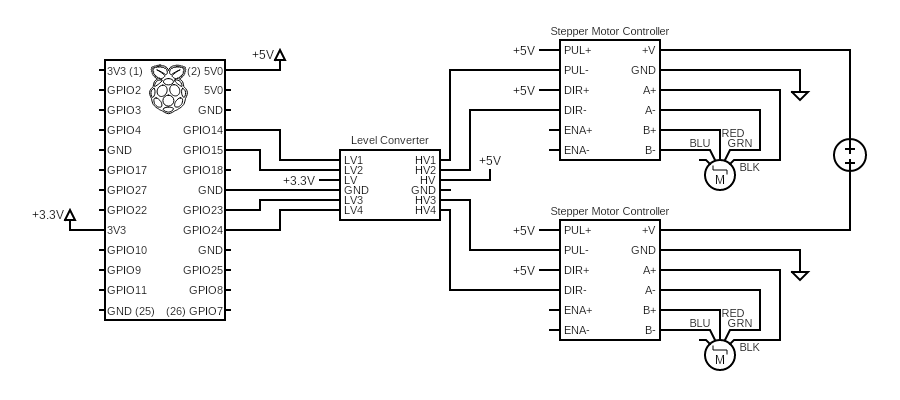
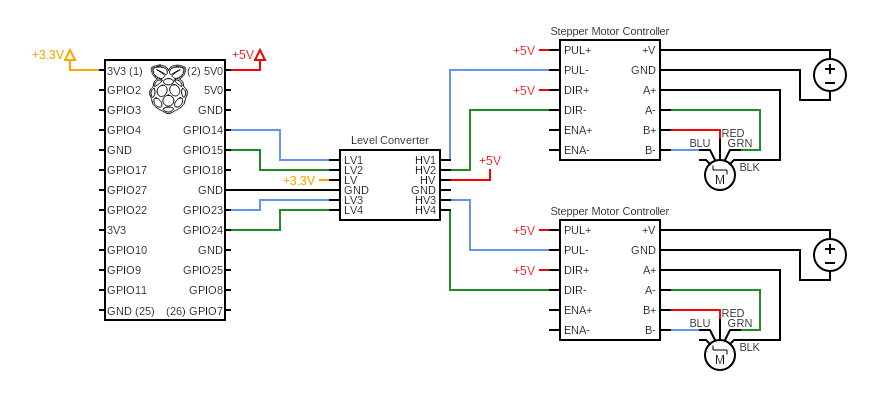
Electronics section

Changed region(s): [[0.3989, 0.06, 0.9818, 0.93], [0.0307, 0.12, 0.4295, 0.81]]

diff --git a/README.md b/README.md
@@ -1,5 +1,6 @@
 # Automatic Telesocpe Control
 Welcome to the project page of the automatic pointing telescope. The goal of this project was to design, build, and program a mounting system for a telescope that is free to rotate in all directions without the need for the user to physically interact with the telescope. Such a system is more accurate, less finicky, and able to view the night sky remotely, without constant user monitoring. This project required us to design the hardware necessary for a maneuverable yet precise mounting system, the electronics necesary to rotate a 5 kg telescope and mounting system with about 30 arseconds of precision, as well as the software which controls the motors, calculation of required pointing angle, and the telescope as a whole.
+![Final Design](https://github.com/cbrahana/supreme-carnival/blob/main/images/Telescope_Setup.png)
 
 ## Table of Contents
 - [Components and Budget](#components-and-budget)
@@ -58,8 +59,11 @@ We did not have time to fully implement encoders, although much of the functiona
 ### Mounting System
 
 ### Electronics
+To control the telescope, we needed extremely precisce yet powerful rotary motors &mdash not necessarily fast motors. We settled on the use of stepper motors, which are ideal for these circumstances: they are not as fast as other types of motors, but the notion of discrete 'steps' means that the motor torque and precision were exactly what we need. To power the NEMA 23 motors we selected, however, required the purchase of two dedicated controllers, which could convert the logic signals from the RPi to 24V and up to 4A signals to the motors themselves. We settled on the DM542 controllers since we did not care about high microstepping fidelity (as microstepping decreases torque) and it met the requirements of our motors. The ALITOVE power supplywas simply chosen because it was the cheapest available which could provide 24VDC power at up to 5A for each motor simultaneously. The choice of RPi was unimportant, in fact, we used many different RPis throughout the project. However, since the RPi only supplies 3.3V on its digital GPIO pins, and the controllers needed at least 3.5V to interpret the signals, we had to purchase a level converter, which would amplify the digital signals coming from the RPi so that they could be read by the controllers. We had attempted a solution involving a non-inverting amplifier using an op-amp, but this had issues at high frequencies, so we purchased dedicated logic converters which doubled the maximum rotation speed of the motors.
 
 #### Circuit Diagram
+The blue lines indicate wires that carry the PWM signal from the RPi to the controllers. Each pulse in the PWM signal is an instruction to step the motor once, so it was important that the PWM signal work at high frequencies so the motor would rotate fast, considering we were already stepping down the motor speed by a factor of 729. The green lines indicate wires which carry the binary direction signal to the controllers so that we could rotate the motors in either direction. 
+
 ![Circuit Diagram](https://github.com/cbrahana/supreme-carnival/blob/main/images/Electronics_Schematic.png)
 
 ## Code
@@ -88,4 +92,4 @@ We did not have time to fully implement encoders, although much of the functiona
 ## Conclusion 
 
 ## Contributors and Acknowldegements
-This porject was made for the spring 2021 UCSB physics 15C/13CH lab class by (in alphabetical order by last name) Collin Brahana, Sam Crossley, Montu Ganesh, and Jack Grossman, under the observation of Dr. Andrew Jayich, and TAs Sean Buechele and Mingyu Fan.
+This project was made for the spring 2021 UCSB physics 15C/13CH lab class by (in alphabetical order by last name) Collin Brahana, Sam Crossley, Montu Ganesh, and Jack Grossman, under the observation of Dr. Andrew Jayich, and TAs Sean Buechele and Mingyu Fan.
